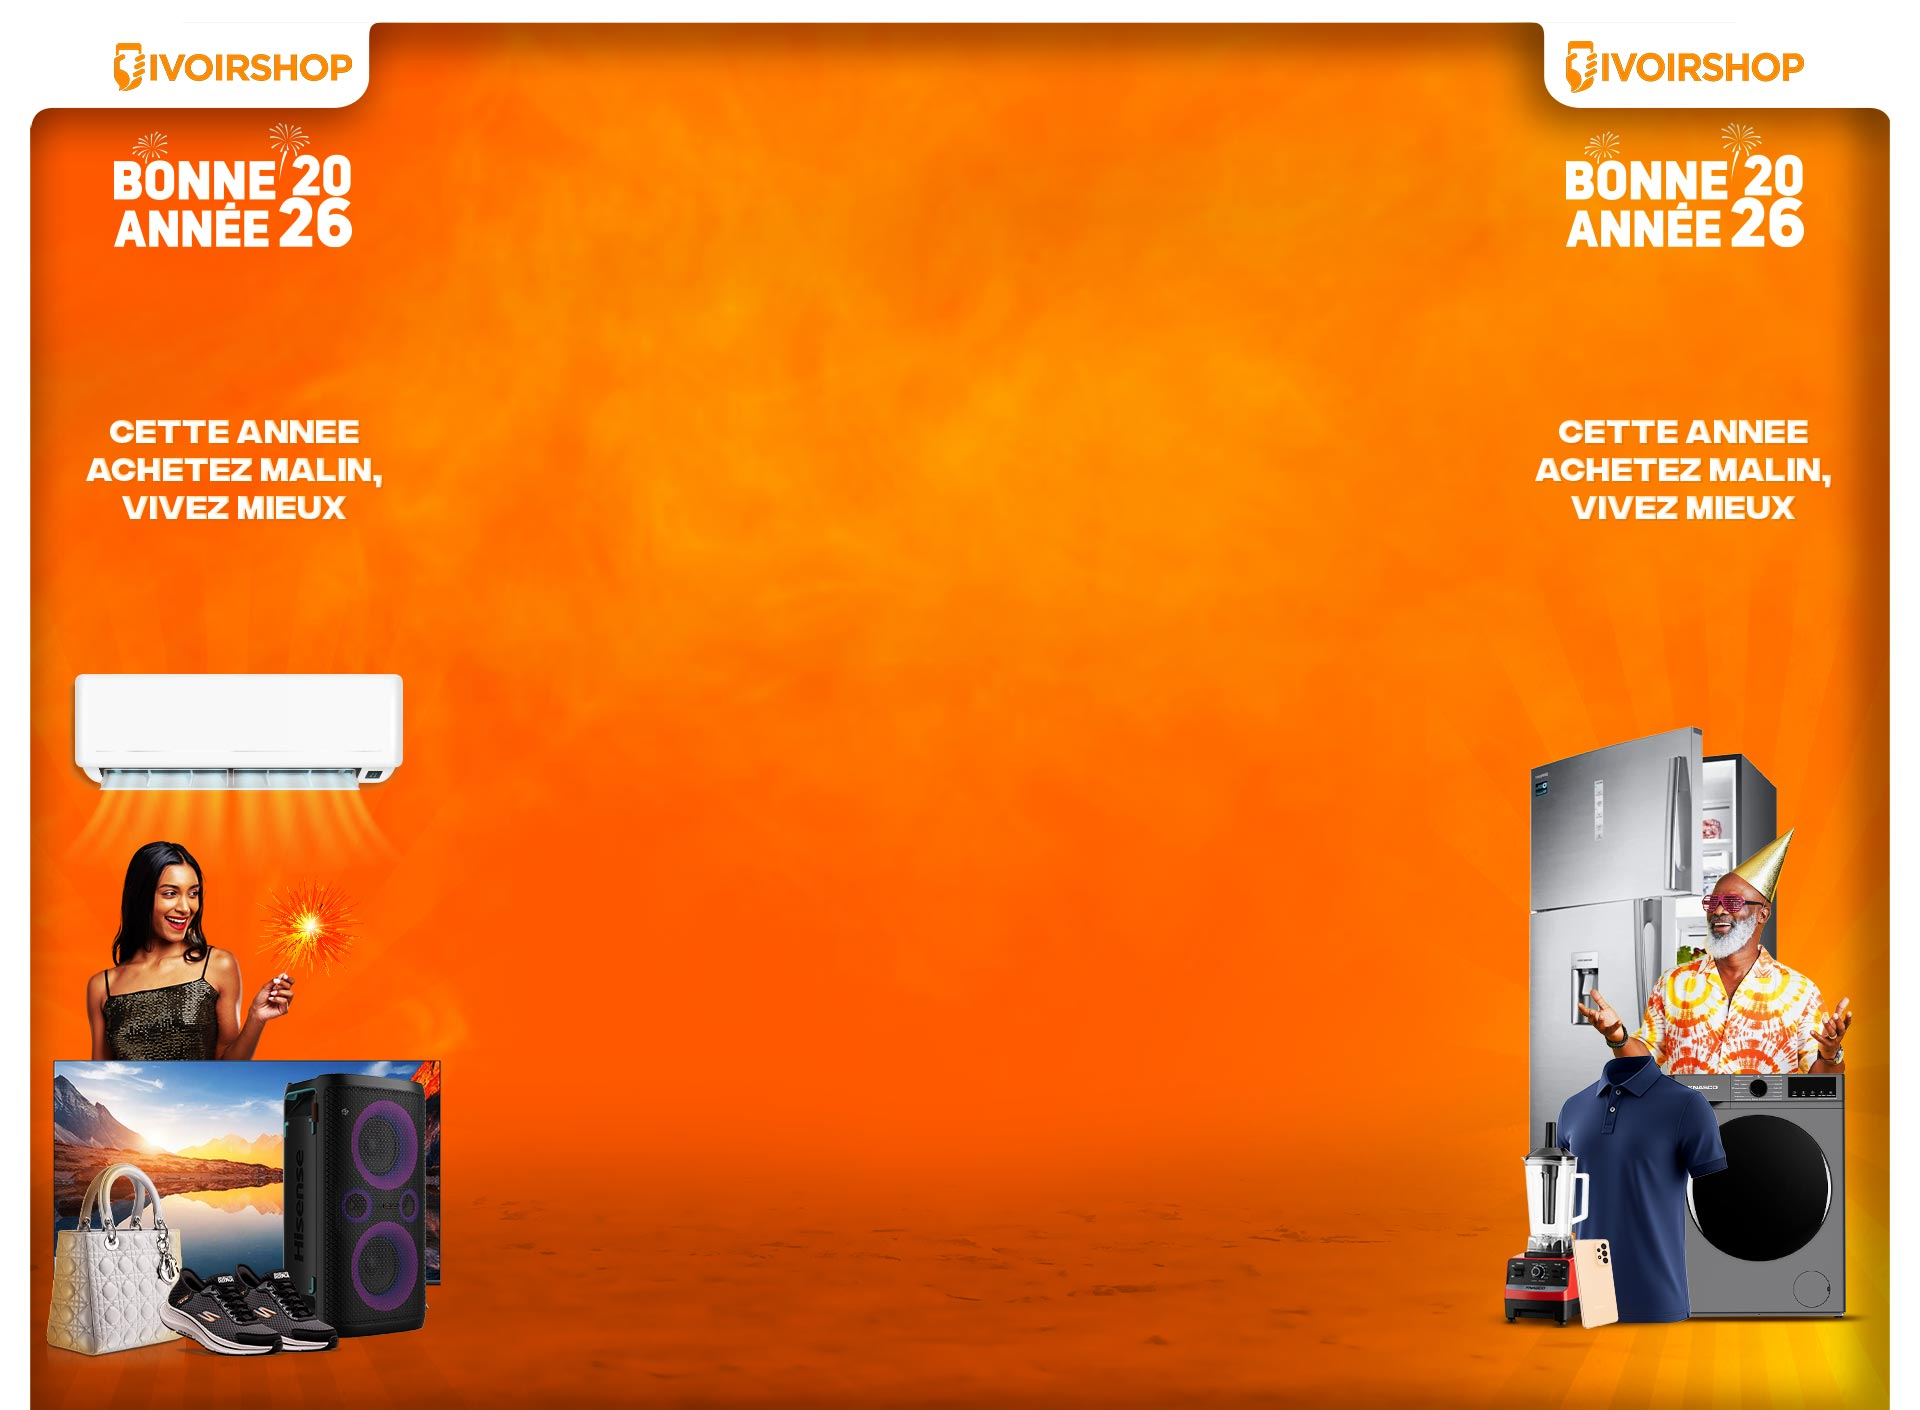
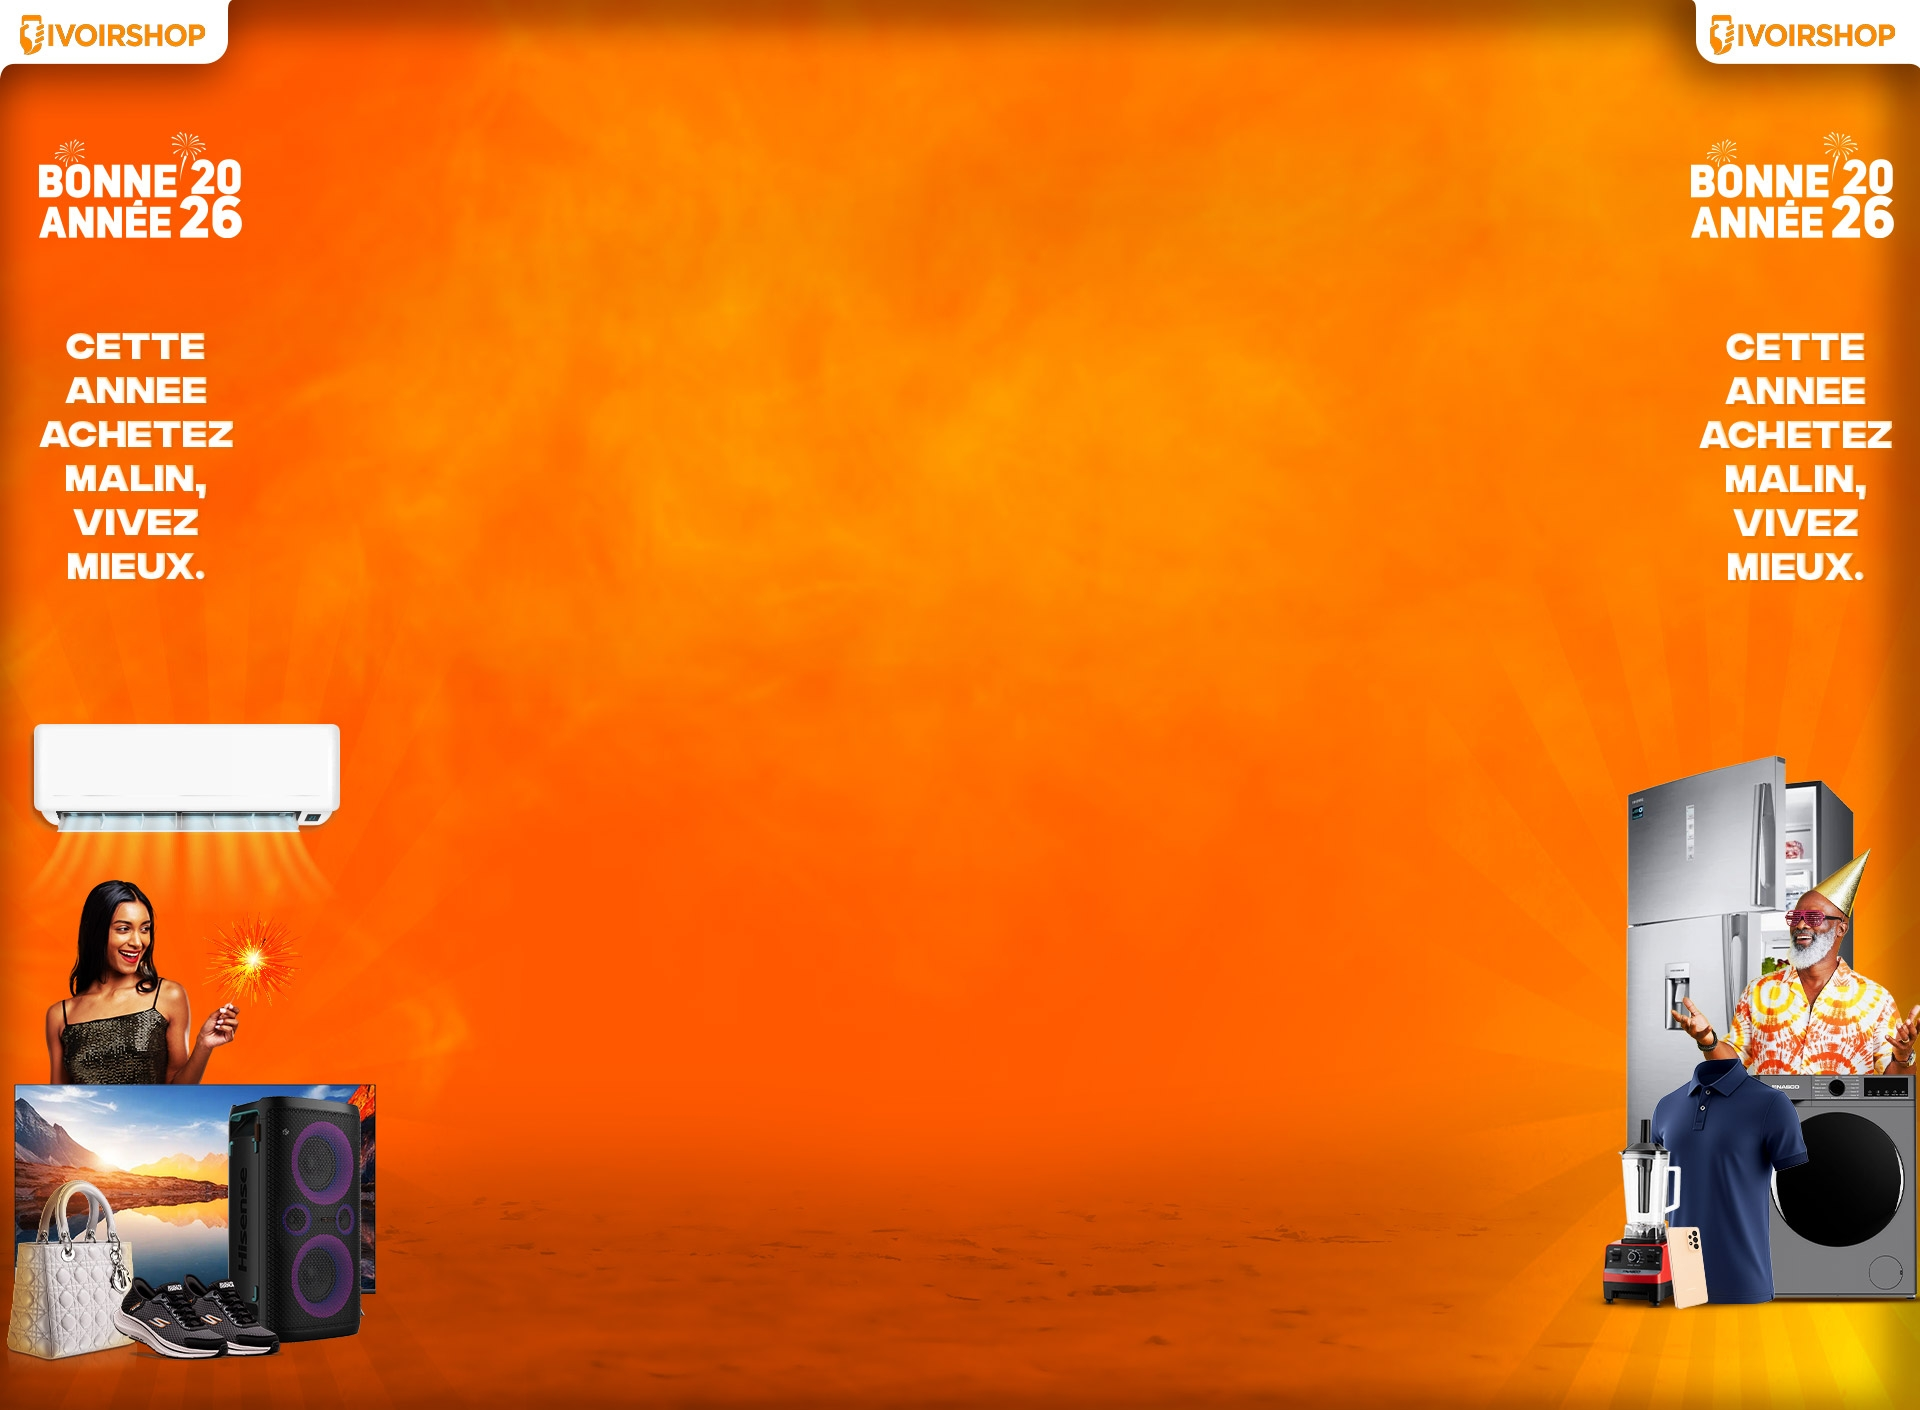
mise a jour

Changed region(s): [[0.0, 0.0, 1.0, 1.0]]

diff --git a/server/api/payment/mobile-money/callback.post.ts b/server/api/payment/mobile-money/callback.post.ts
@@ -66,7 +66,7 @@ export default defineEventHandler(async (event) => {
         payment_method: 'mobile_money',
         payment_method_title: 'Mobile Money',
         set_paid: true, // Marquer comme payé
-        status: 'processing', // Statut: en cours de traitement
+        status: 'paye-par-mobile-money', // Statut: Payé par mobile money
         transaction_id: payload.transaction_id || payload.id, // ID de transaction
         customer_note: `✅ Payé par Mobile Money - Transaction: ${payload.transaction_id || payload.id}`,
         billing: {
@@ -129,6 +129,7 @@ export default defineEventHandler(async (event) => {
         console.log('Order ID WooCommerce:', woocommerceOrderId)
         console.log('Order ID Temporaire:', payload.metadata.order_id)
         console.log('Transaction ID:', payload.transaction_id || payload.id)
+        console.log('Statut: Payé par mobile money')
         console.log('Montant:', payload.amount, 'FCFA')
         console.log('============================================')
       } else {

diff --git a/app/layouts/default.vue b/app/layouts/default.vue
@@ -1,7 +1,7 @@
 <!-- layouts/default.vue -->
 <template>
-  <!-- <div :class="['min-h-screen flex flex-col', isIndexPage ? 'homepage-bg' : 'bg-gray-50']"> -->
-    <div class="min-h-screen flex flex-col">
+  <div :class="['min-h-screen flex flex-col', isIndexPage ? 'homepage-bg' : 'bg-gray-50']">
+    <!-- <div class="min-h-screen flex flex-col"> -->
     <TopBanner />
     <AppHeader />
     <main class="flex-1">
@@ -19,8 +19,8 @@ const isIndexPage = computed(() => route.path === '/')
 
 <style>
 .homepage-bg {
-  background-image: url('/images/BG-ivoirshop.jpg');
-  background-size: cover;
+  background-image: url('/images/bg-ivoirshop.jpg');
+  /* background-size: fill; */
   background-position: center center;
   background-repeat: no-repeat;
   background-attachment: fixed;

diff --git a/docs/ENV-CONFIGURATION.md b/docs/ENV-CONFIGURATION.md
@@ -153,3 +153,6 @@ npm run dev
 
 
 
+
+
+
